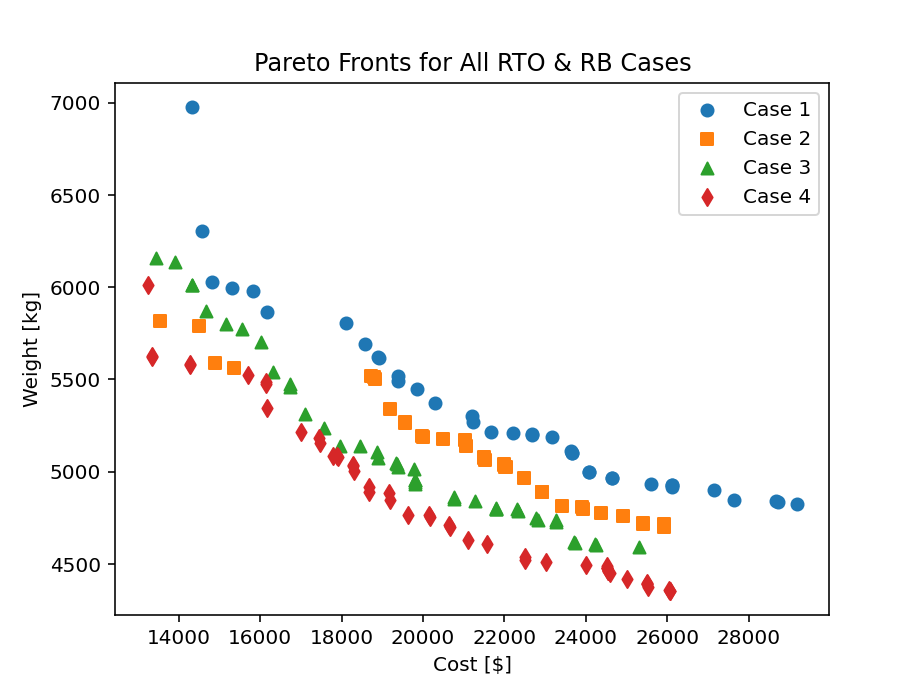
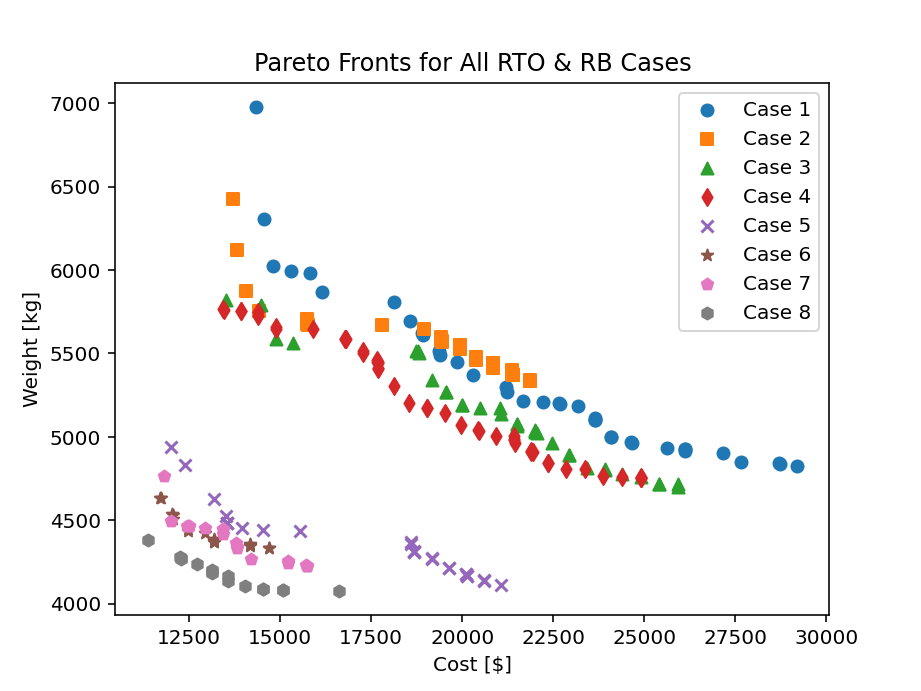
Ready for smith_v2 in opt

diff --git a/Midship Section Optimization/RB & Return to Optimality/Test Case/SD_Midship_Section_Optimizer_Test_Case.py b/Midship Section Optimization/RB & Return to Optimality/Test Case/SD_Midship_Section_Optimizer_Test_Case.py
@@ -279,7 +279,7 @@ class SD_Midship_Section_Test_Case(nsga2.Problem):
 # run the optimization
 ## lower and upper bounds for design variables
 loBound = [1, 1/1000, 1/1000, 1/1000, 1/1000, 1/1000, 1, 1/1000, 1/1000, 1/1000, 1/1000, 1/1000, 1, 1/1000, 1/1000, 1/1000, 1/1000, 1/1000, 1, 1/1000, 1/1000, 1/1000, 1/1000, 1/1000, 1, 1/1000, 1/1000, 1/1000, 1/1000, 1/1000]
-upBound = [15, 50/1000, 25/1000, 25/1000, 25/1000, 25/1000, 15, 50/1000, 25/1000, 25/1000, 25/1000, 25/1000, 15, 50/1000, 25/1000, 25/1000, 25/1000, 25/1000, 15, 50/1000, 25/1000, 25/1000, 25/1000, 25/1000, 15, 50/1000, 25/1000, 25/1000, 25/1000, 25/1000]
+upBound = [15, 100/1000, 50/1000, 50/1000, 50/1000, 50/1000, 15, 100/1000, 50/1000, 50/1000, 50/1000, 50/1000, 15, 100/1000, 50/1000, 50/1000, 50/1000, 50/1000, 15, 100/1000, 50/1000, 50/1000, 50/1000, 50/1000, 15, 100/1000, 50/1000, 50/1000, 50/1000, 50/1000]
 test_problem = SD_Midship_Section_Test_Case(2, 9, 30, loBound, upBound)
     # numObj, numConstraints, GeneNum, loBound, upBound
 opt = nsga2.Optimizer(test_problem)

diff --git a/Midship Section Optimization/RB & Return to Optimality/Case 5/SD_Midship_Section_Optimizer_Case_5.py b/Midship Section Optimization/RB & Return to Optimality/Case 5/SD_Midship_Section_Optimizer_Case_5.py
@@ -11,7 +11,6 @@ import math
 import Structures
 import logging
 from numpy import zeros
-import midship_section
 import Plate
 import Cost
 import sys
@@ -226,7 +225,7 @@ class SD_Midship_Section_Test_Case(nsga2.Problem):
         HG_stress = self.structure.HG_stress()
         HG_caps = self.structure.Hughes_Panel(2.4, 1025, 38.36, HG_stress)
         panel_beta = self.structure.Hughes_panel_reliability(HG_caps, HG_stress)[0]
-        panel_beta_R = 13 #required beta against panel collapse
+        panel_beta_R = 3 #required beta against panel collapse
         panel_beta_frac = (panel_beta_R-panel_beta)/panel_beta_R
 
         #evaluate beta against bottom panel collapse

diff --git a/Midship Section Optimization/Reliability-Based/Case 2/SD_Midship_Section_Optimizer_Case_2.py b/Midship Section Optimization/Reliability-Based/Case 2/SD_Midship_Section_Optimizer_Case_2.py
@@ -218,7 +218,7 @@ class SD_Midship_Section_Test_Case(nsga2.Problem):
 
         #evaluate beta against hull girder collapse
         HG_beta = self.structure.HG_reliability(section_data[6])[0]
-        HG_beta_R = 5.5 #required beta against hull girder collapse
+        HG_beta_R = 5 #required beta against hull girder collapse
         HG_beta_frac = (HG_beta_R-HG_beta)/HG_beta_R
 
         #evaluate beta against individual panel collapse

diff --git a/Midship Section Optimization/RB & Return to Optimality/Case 1/SD_Midship_Section_Optimizer_Case_1.py b/Midship Section Optimization/RB & Return to Optimality/Case 1/SD_Midship_Section_Optimizer_Case_1.py
@@ -11,7 +11,6 @@ import math
 import Structures
 import logging
 from numpy import zeros
-import midship_section
 import Plate
 import Cost
 import sys

diff --git a/Midship Section Optimization/RB & Return to Optimality/Case 2/SD_Midship_Section_Optimizer_Case_2.py b/Midship Section Optimization/RB & Return to Optimality/Case 2/SD_Midship_Section_Optimizer_Case_2.py
@@ -11,7 +11,6 @@ import math
 import Structures
 import logging
 from numpy import zeros
-import midship_section
 import Plate
 import Cost
 import sys

diff --git a/Midship Section Optimization/RB & Return to Optimality/Case 3/SD_Midship_Section_Optimizer_Case_3.py b/Midship Section Optimization/RB & Return to Optimality/Case 3/SD_Midship_Section_Optimizer_Case_3.py
@@ -11,7 +11,6 @@ import math
 import Structures
 import logging
 from numpy import zeros
-import midship_section
 import Plate
 import Cost
 import sys

diff --git a/Midship Section Optimization/RB & Return to Optimality/Case 4/SD_Midship_Section_Optimizer_Case_4.py b/Midship Section Optimization/RB & Return to Optimality/Case 4/SD_Midship_Section_Optimizer_Case_4.py
@@ -11,7 +11,6 @@ import math
 import Structures
 import logging
 from numpy import zeros
-import midship_section
 import Plate
 import Cost
 import sys

diff --git a/Midship Section Optimization/RB & Return to Optimality/Case 6/SD_Midship_Section_Optimizer_Case_6.py b/Midship Section Optimization/RB & Return to Optimality/Case 6/SD_Midship_Section_Optimizer_Case_6.py
@@ -11,7 +11,6 @@ import math
 import Structures
 import logging
 from numpy import zeros
-import midship_section
 import Plate
 import Cost
 import sys

diff --git a/Midship Section Optimization/RB & Return to Optimality/Case 7/SD_Midship_Section_Optimizer_Case_7.py b/Midship Section Optimization/RB & Return to Optimality/Case 7/SD_Midship_Section_Optimizer_Case_7.py
@@ -11,7 +11,6 @@ import math
 import Structures
 import logging
 from numpy import zeros
-import midship_section
 import Plate
 import Cost
 import sys

diff --git a/Midship Section Optimization/RB & Return to Optimality/Case 8/SD_Midship_Section_Optimizer_Case_8.py b/Midship Section Optimization/RB & Return to Optimality/Case 8/SD_Midship_Section_Optimizer_Case_8.py
@@ -11,7 +11,6 @@ import math
 import Structures
 import logging
 from numpy import zeros
-import midship_section
 import Plate
 import Cost
 import sys
